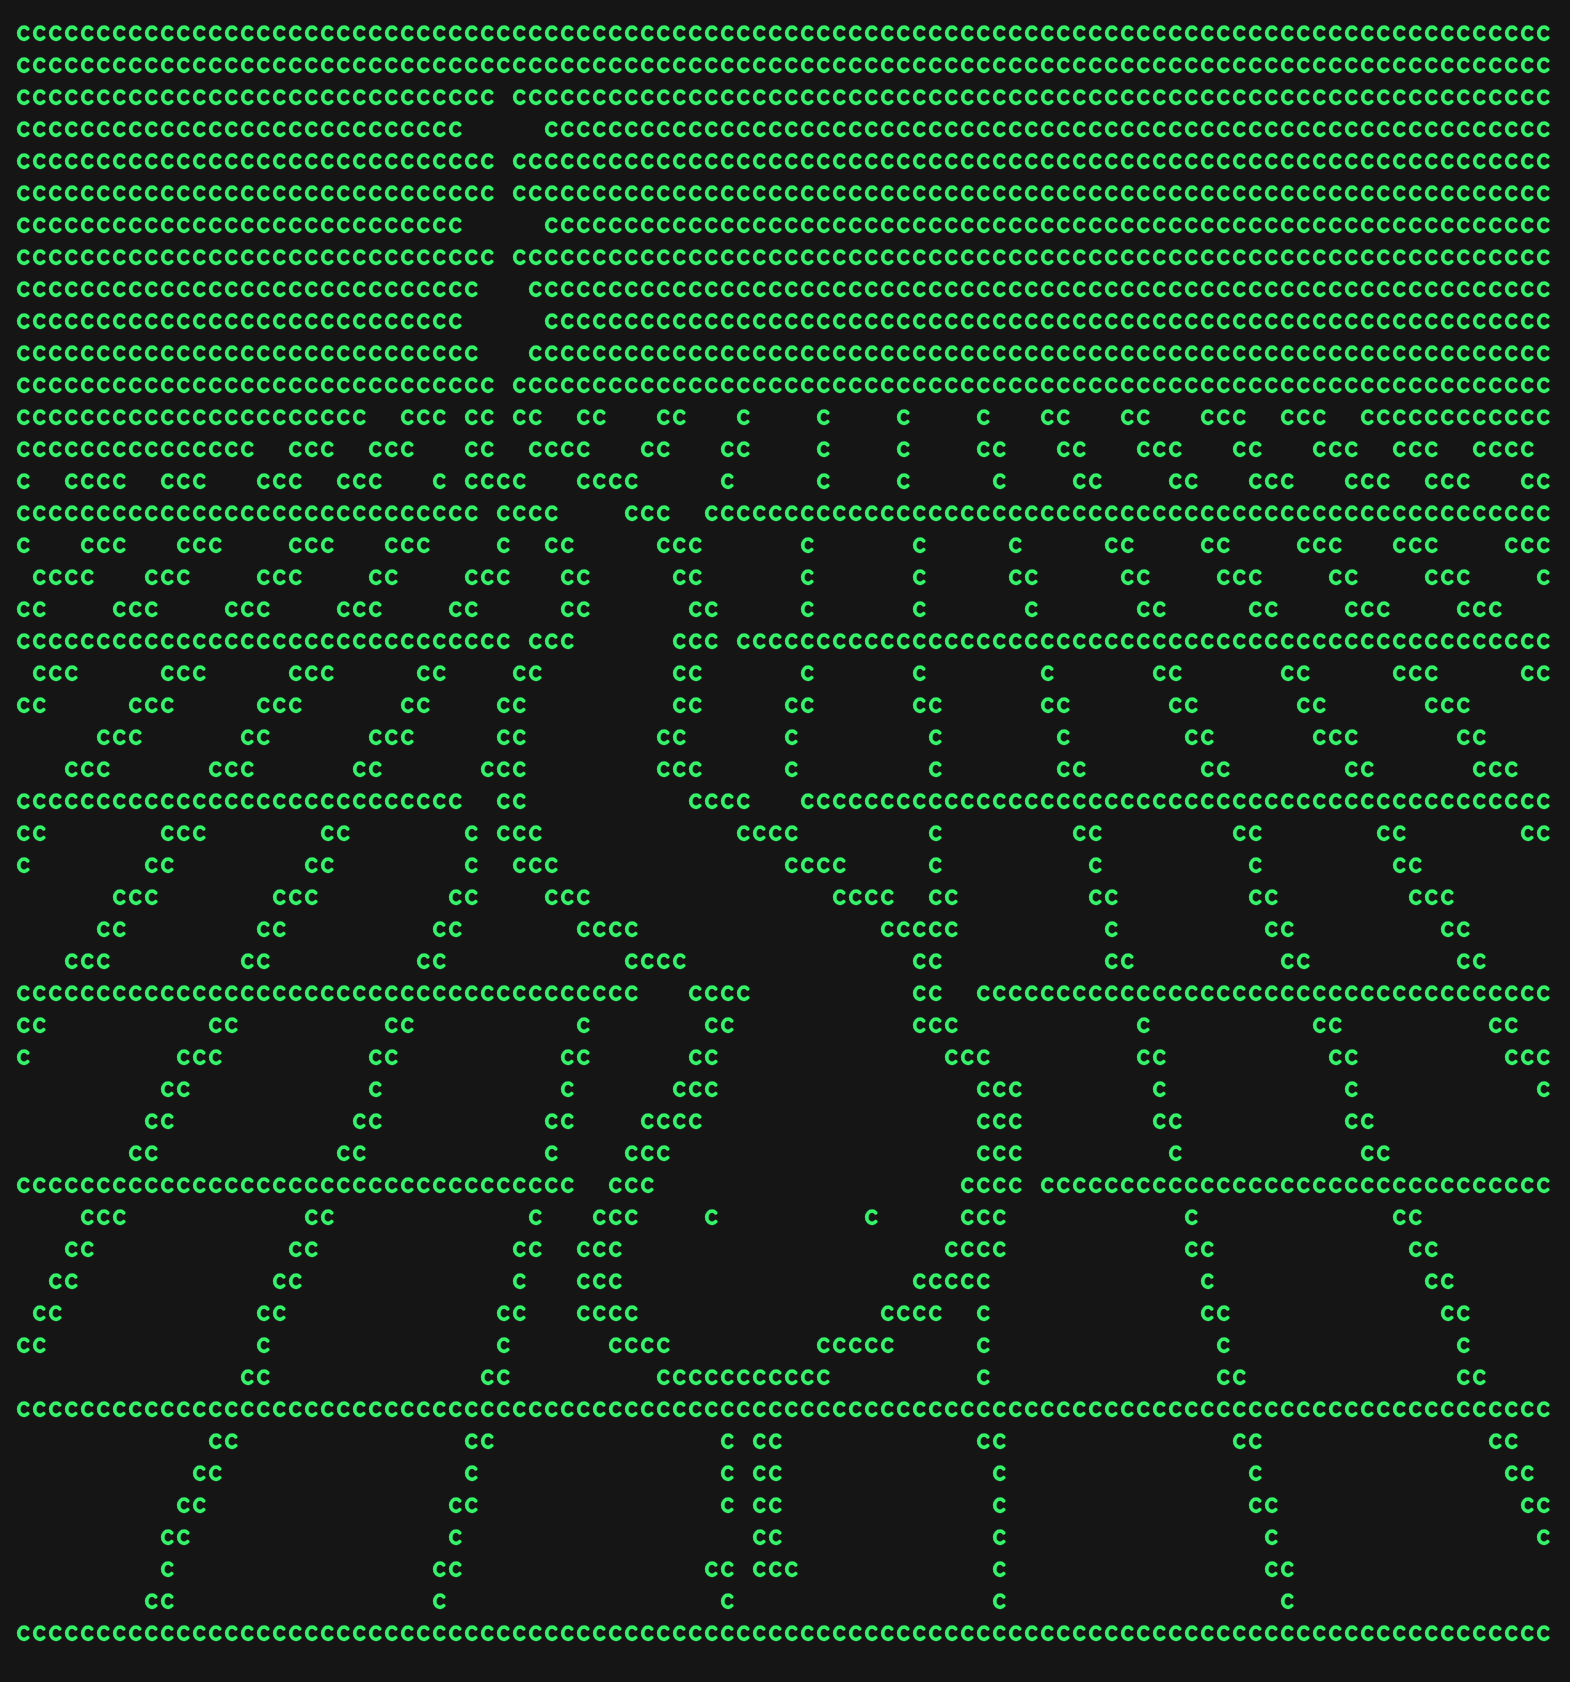
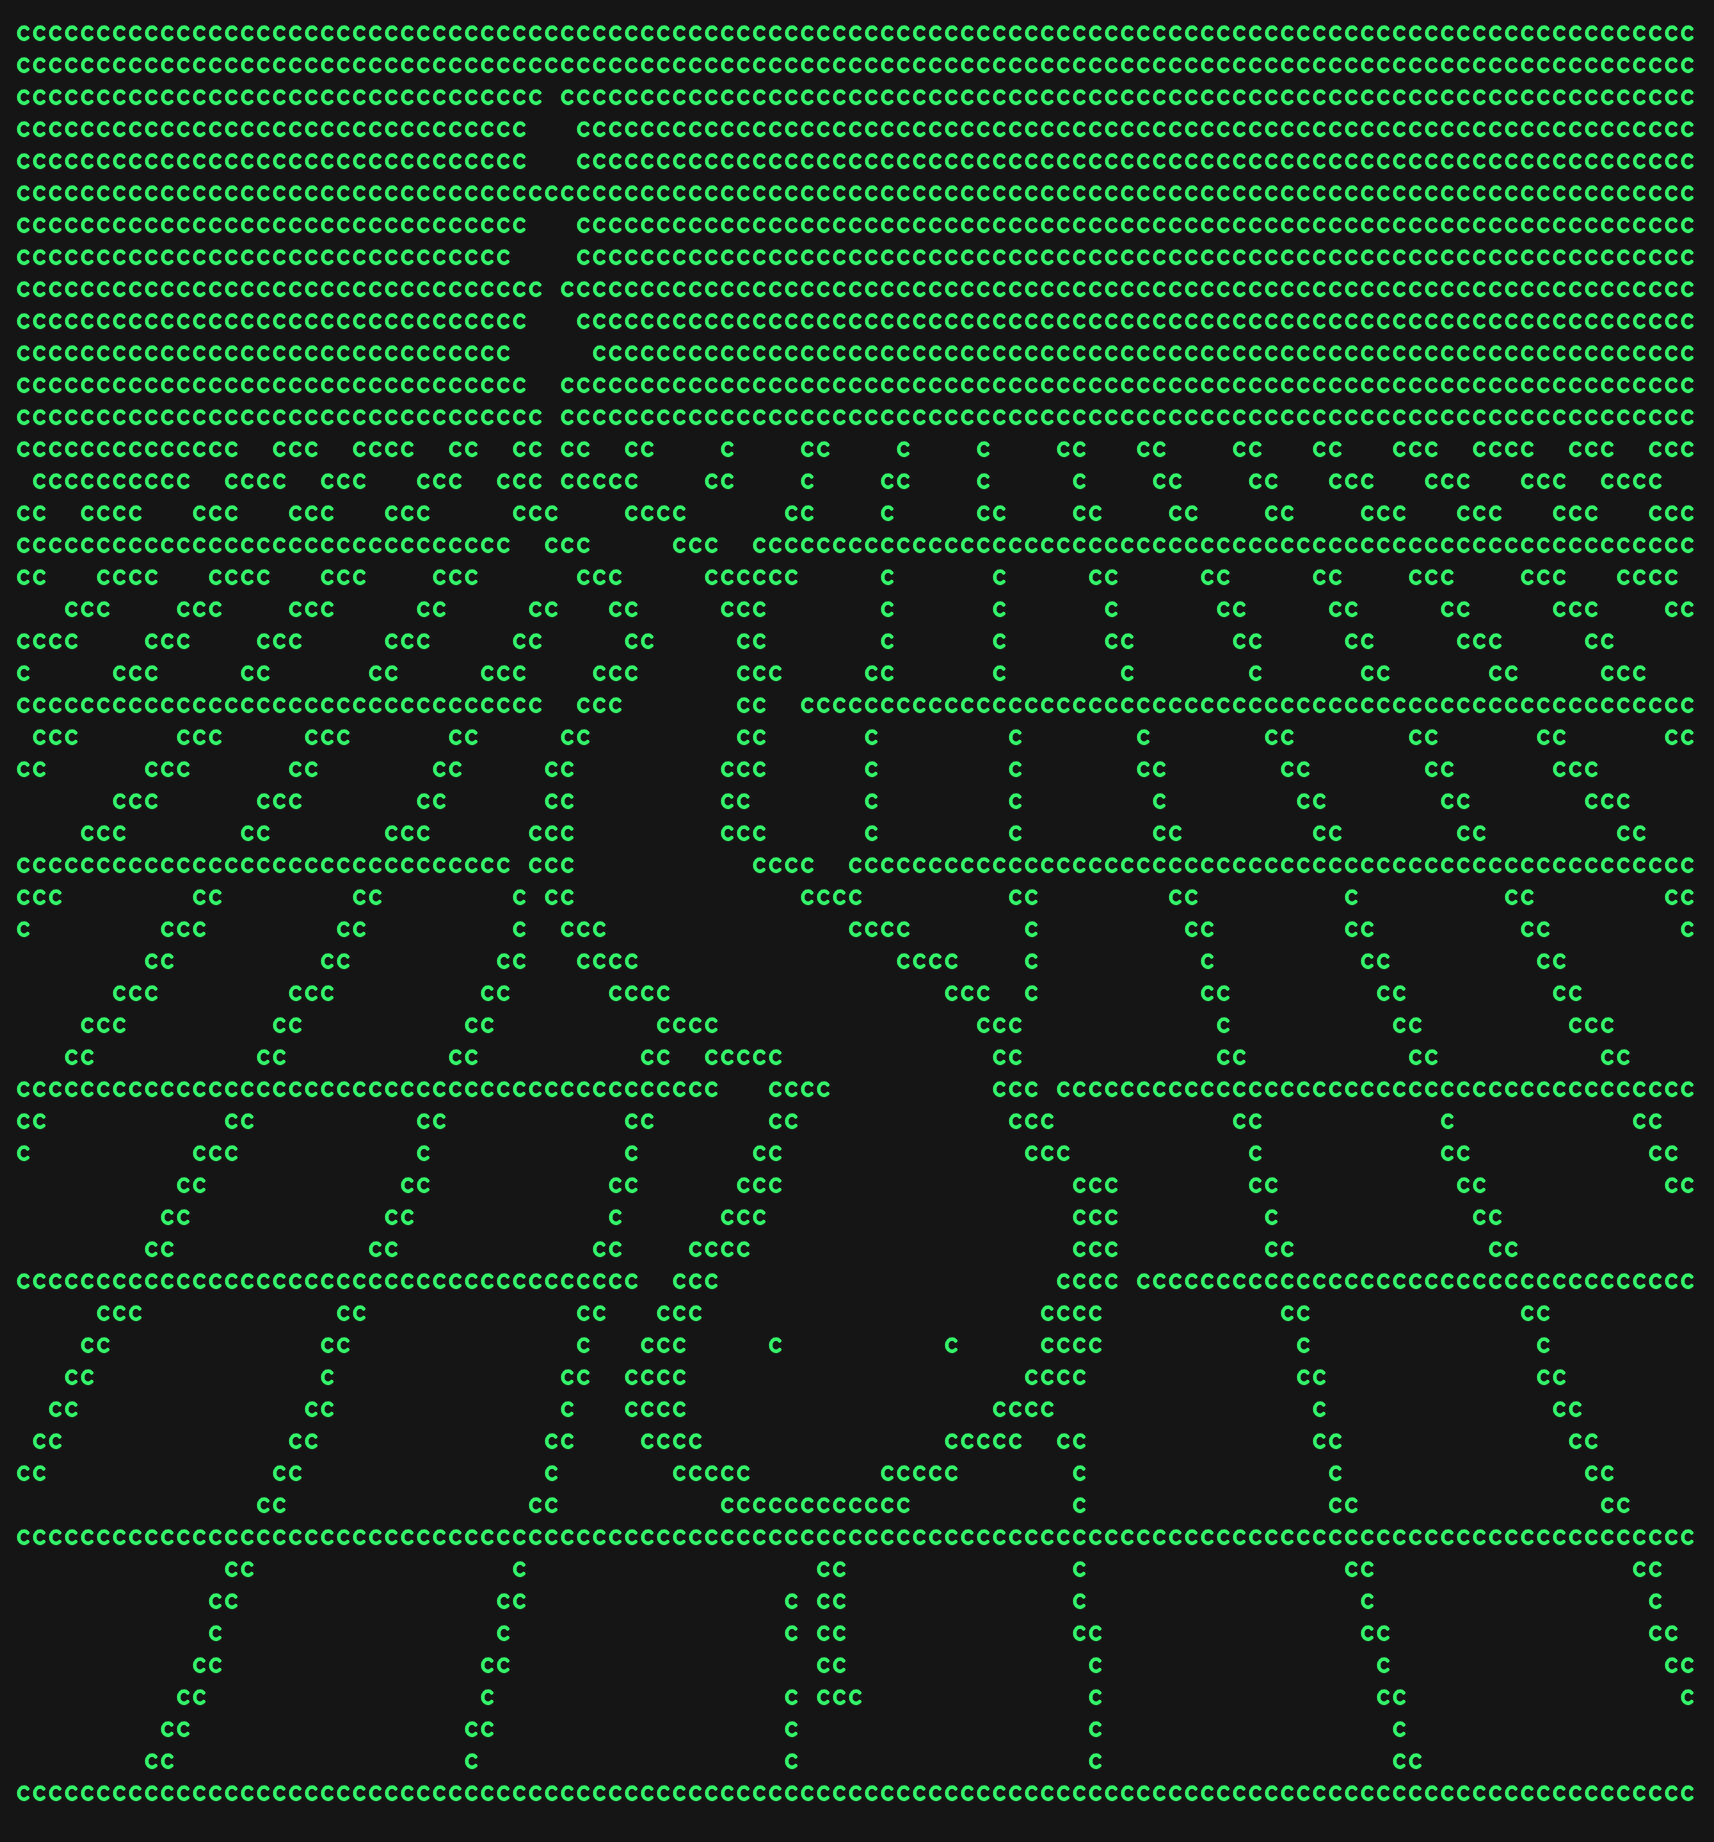
Toy: resolution from 80 to 130 columns, 105 by default

Changed region(s): [[0.0, 0.0, 0.9987, 0.9893], [0.4057, 0.4019, 0.4369, 0.4637], [0.0, 0.7729, 0.0312, 0.8038]]

diff --git a/site/toy.js b/site/toy.js
@@ -11,7 +11,7 @@ const KNOBS = [
   ['speed', 0.03, 0.3, 0.57],
   ['sway', 0, 1.12, 2.24],
   ['waves', 0, 1, 2],
-  ['resolution', 64, 96, 128],
+  ['resolution', 80, 105, 130],
   ['rattle', 0, 2, 4],
 ];
 const value = ([, low, , high], x) => low + (high - low) * x;

diff --git a/site/logo.c b/site/logo.c
@@ -14,7 +14,7 @@
    and ./nob snake makes it snake.c, the site's export: with LOGO_MAIN, a program that plays it in a terminal, with
    the snakepath it uses in place of the #include. */
 
-#define LOGO_MIN_COLS 64 /* fewer, and the head loses its eyes */
+#define LOGO_MIN_COLS 80 /* fewer, and the head loses its eyes */
 #define LOGO_MAX_COLS 192
 #define LOGO_MAX_ROWS 102 /* 51 rows for each 96 columns */
 #define LOGO_PI 3.14159265358979323846
@@ -33,7 +33,7 @@ extern char logo_out[LOGO_MAX_ROWS * (LOGO_MAX_COLS + 1)];
 int logo_frame(double t);
 
 #ifndef LOGO_SETTINGS
-#define LOGO_SETTINGS {0.3, 1.12, 1, 96, 2}
+#define LOGO_SETTINGS {0.3, 1.12, 1, 105, 2}
 #endif
 LogoSettings logo_set = LOGO_SETTINGS;
 char logo_out[LOGO_MAX_ROWS * (LOGO_MAX_COLS + 1)]; /* the rows joined by '\n' */
